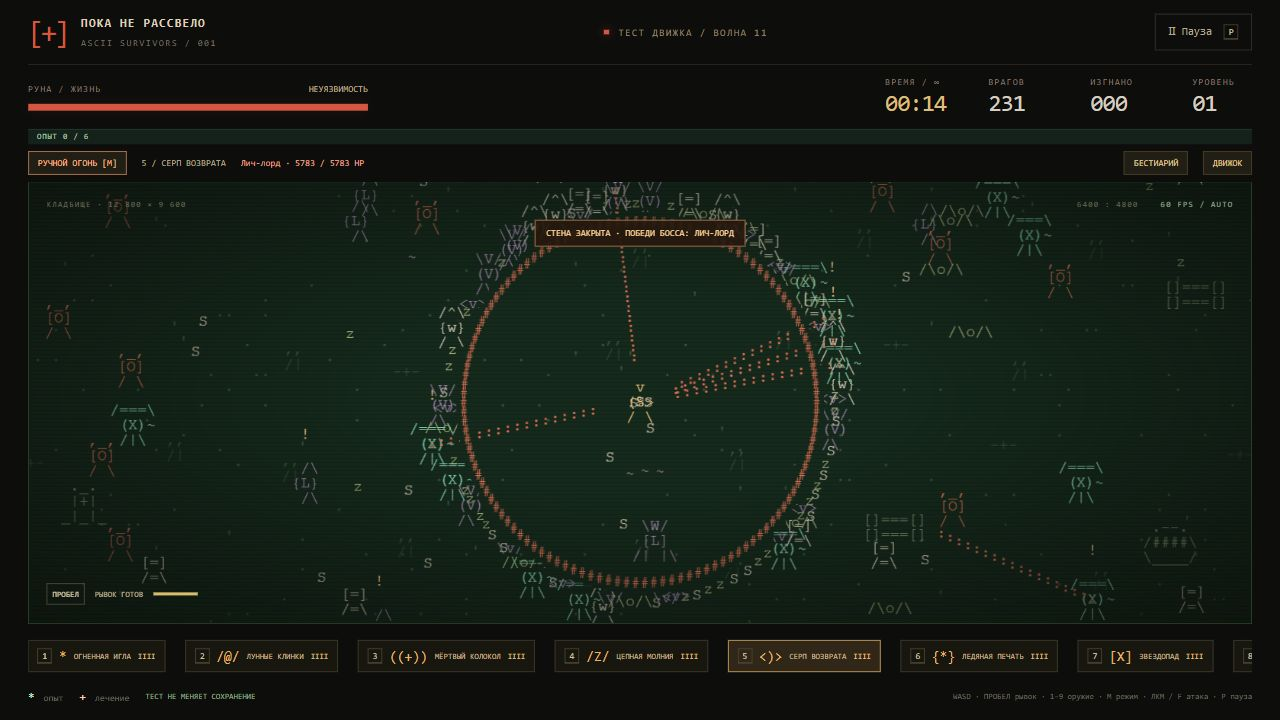
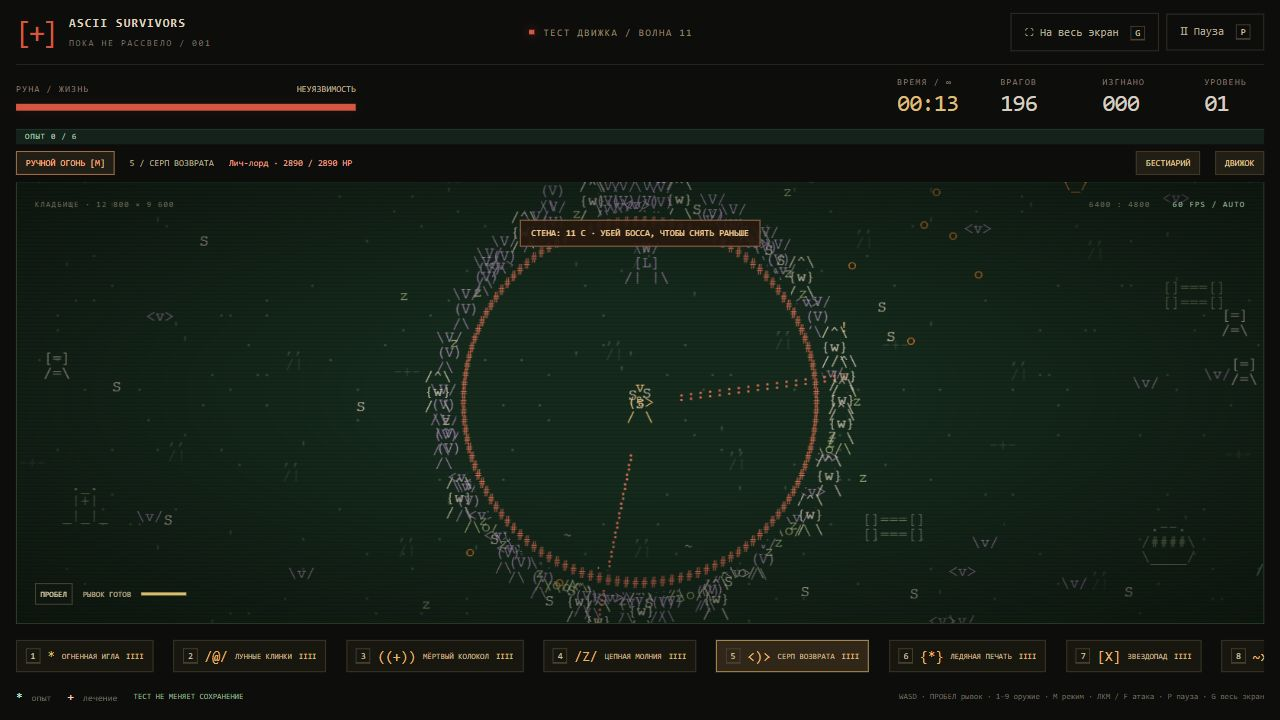
Limit boss seals to 15 seconds and rebalance arena encounters

diff --git a/core.js b/core.js
@@ -50,7 +50,7 @@
   const CASTS = { lightning: ['castLightning', 2.4], boomerang: ['castBoomerang', 1.7], frost: ['castFrost', 4.2], meteor: ['castMeteor', 3.2] };
   const SLOTS = ['needle', 'blades', 'pulse', 'lightning', 'boomerang', 'frost', 'meteor', 'poison', null];
   const WORLD = Object.freeze({ width: 12800, height: 9600 });
-  const BALANCE = Object.freeze({ weaponCooldown: .65, dashCooldown: .6 });
+  const BALANCE = Object.freeze({ weaponCooldown: .65, dashCooldown: .6, arenaSeconds: 15, arenaBossHealth: 1.25, arenaBossDamage: .75, arenaSummonLimit: 4 });
   const BOSSES = ['lichLord', 'british', 'freddy', 'jason', 'alienQueen', 'reaper'];
   const TERRAIN_TYPES = [
     { kind: 'grave', w: 46, h: 46, sprite: ' ._.\n |+|\n_|_|_', ink: 1 },
@@ -188,11 +188,16 @@
       }
     }
     beginEncounter() {
-      this.encounter = { phase: 'warning', x: this.player.x, y: this.player.y, radius: this.arenaRadius, warningLeft: 5, bossId: 0, kind: BOSSES[this.bossIndex % BOSSES.length] };
+      this.encounter = { phase: 'warning', x: this.player.x, y: this.player.y, radius: this.arenaRadius, warningLeft: 5, lockedLeft: BALANCE.arenaSeconds, bossId: 0, kind: BOSSES[this.bossIndex % BOSSES.length] };
       this.events.push('arena-warning');
     }
     updateEncounter(dt) {
-      const arena = this.encounter; if (!arena || arena.phase !== 'warning') return;
+      const arena = this.encounter; if (!arena) return;
+      if (arena.phase === 'locked') {
+        arena.lockedLeft = Math.max(0, arena.lockedLeft - dt);
+        if (arena.lockedLeft <= 0) this.releaseArena('arena-timeout');
+        return;
+      }
       arena.x = clamp(this.player.x, arena.radius + 90, this.width - arena.radius - 90);
       arena.y = clamp(this.player.y, arena.radius + 90, this.height - arena.radius - 90);
       arena.warningLeft = Math.max(0, arena.warningLeft - dt);
@@ -201,9 +206,19 @@
       for (const enemy of this.enemies) { enemy.arenaMember = 0; this.resolveArena(enemy); }
       const angle = this.random() * TAU, distance = arena.radius * .56;
       const boss = this.spawn(arena.kind, arena.x + Math.cos(angle) * distance, arena.y + Math.sin(angle) * distance, 1);
-      boss.hp *= 2.5; boss.maxHp = boss.hp; boss.radius = Math.min(46, boss.radius * 1.25); boss.arenaMember = 1;
+      boss.hp *= BALANCE.arenaBossHealth; boss.maxHp = boss.hp; boss.damage *= BALANCE.arenaBossDamage;
+      boss.radius = Math.min(46, boss.radius * 1.25); boss.arenaMember = 1;
+      this.player.invulnerable = Math.max(this.player.invulnerable, 1);
       arena.bossId = boss.id; this.bossIndex++; this.bossSpawned = true; this.lastBoss = boss.title;
       this.events.push('boss');
+    }
+    releaseArena(event) {
+      if (!this.encounter) return;
+      this.encounter = null; this.nextBossAt = this.pressureTime + 90;
+      for (const enemy of this.enemies) enemy.arenaMember = 0;
+      for (const summon of this.summons) summon.arenaMember = 0;
+      this.resolveTerrain(this.player); this.player.invulnerable = Math.max(this.player.invulnerable, 1.5);
+      this.events.push(event);
     }
     dropChest(enemy) {
       const chest = { id: this.nextChestId++, x: enemy.x, y: enemy.y, source: enemy.kind, radius: 20 };
@@ -256,7 +271,7 @@
     aimedTarget(range = 620) {
       const p = this.player, aim = this.aimPoint(range), dx = aim.x - p.x, dy = aim.y - p.y, length = Math.hypot(dx, dy) || 1;
       let found = null, score = Infinity;
-      for (const e of this.enemies) if (e.alive) {
+      for (const e of this.enemies) if (e.alive && (this.encounter?.phase !== 'locked' || e.arenaMember)) {
         const ex = e.x - p.x, ey = e.y - p.y, along = (ex * dx + ey * dy) / length, side = Math.abs(ex * dy - ey * dx) / length;
         if (along > 0 && along < range && side < 48 + e.radius && along + side * 3 < score) { score = along + side * 3; found = e; }
       }
@@ -358,8 +373,9 @@
       if (e.boss) this.bossKills++;
       if (e.boss) {
         if (this.encounter?.bossId === e.id) {
-          this.encounter = null; this.nextBossAt = this.pressureTime + 90; this.resolveTerrain(this.player); this.events.push('arena-clear');
-        }
+          this.releaseArena('arena-clear');
+        } else this.events.push('boss-defeated');
+        this.nextBossAt = this.pressureTime + 90;
         this.dropChest(e);
       }
       this.addGem(e.x, e.y, e.xp);
@@ -381,12 +397,7 @@
     fire() {
       if (!this.levels.needle) return;
       const p = this.player;
-      let closest = null, distance = 700 * 700;
-      for (const e of this.enemies) if (e.alive) {
-        const d = (e.x - p.x) ** 2 + (e.y - p.y) ** 2;
-        if (d < distance) { distance = d; closest = e; }
-      }
-      if (this.fireMode === 'manual') closest = this.aimPoint(700);
+      const closest = this.fireMode === 'manual' ? this.aimPoint(700) : this.targets(p.x, p.y, 700, 1)[0];
       if (!closest) return;
       const angle = Math.atan2(closest.y - p.y, closest.x - p.x);
       const count = 1 + this.levels.fork;
@@ -432,12 +443,13 @@
       return result;
     }
     targets(x = this.player.x, y = this.player.y, radius = 620, count = 2) {
-      const best = [], distances = [];
-      for (const e of this.enemies) if (e.alive) {
+      const best = [], distances = [], arena = this.encounter?.phase === 'locked' ? this.encounter : null;
+      for (const e of this.enemies) if (e.alive && (!arena || e.arenaMember)) {
         const d = (e.x - x) ** 2 + (e.y - y) ** 2; if (d >= radius * radius) continue;
-        let i = 0; while (i < distances.length && distances[i] < d) i++;
+        const score = arena?.bossId === e.id ? -1 : d;
+        let i = 0; while (i < distances.length && distances[i] < score) i++;
         if (i >= count) continue;
-        best.splice(i, 0, e); distances.splice(i, 0, d); if (best.length > count) { best.pop(); distances.pop(); }
+        best.splice(i, 0, e); distances.splice(i, 0, score); if (best.length > count) { best.pop(); distances.pop(); }
       }
       return best;
     }
@@ -542,6 +554,10 @@
       this.slashes = this.slashes.filter(s => s.life > 0);
     }
     queueSummons(e, kind, count) {
+      if (e.arenaMember && this.encounter?.phase === 'locked') {
+        const inside = this.enemies.filter(enemy => enemy.alive && enemy.arenaMember && !enemy.boss).length + this.summons.filter(summon => summon.arenaMember).length;
+        count = Math.min(count, Math.max(0, BALANCE.arenaSummonLimit - inside));
+      }
       for (let i = 0; i < count && this.summons.length < 24; i++) {
         const angle = this.random() * TAU, distance = 55 + this.random() * 40;
         this.summons.push({ kind, x: clamp(e.x + Math.cos(angle) * distance, 28, this.width - 28), y: clamp(e.y + Math.sin(angle) * distance, 28, this.height - 28), arenaMember: e.arenaMember });
@@ -623,7 +639,7 @@
 
       this.spawnClock -= dt;
       if (this.spawnClock <= 0) this.spawnWave();
-      if (!this.encounter && this.pressureTime >= this.nextBossAt && this.enemies.length < this.enemyLimit) this.beginEncounter();
+      if (!this.encounter && this.pressureTime >= this.nextBossAt && this.enemies.length < this.enemyLimit && !this.enemies.some(e => e.alive && e.boss)) this.beginEncounter();
       this.updateEncounter(dt);
       this.peakEnemies = Math.max(this.peakEnemies, this.enemies.length);
       for (const e of this.enemies) if (e.alive) {

diff --git a/progress.js b/progress.js
@@ -29,7 +29,7 @@
       fireMode: game.fireMode, selectedWeapon: game.selectedWeapon, lastBoss: game.lastBoss,
       player: pick(game.player, playerKeys), levels: { ...game.levels }, clocks: { ...game.weaponClocks },
       offers: game.offers.map(u => u.id), encountered: Array.from(game.encountered),
-      terrainEnabled: game.terrainEnabled, encounter: game.encounter ? { ...game.encounter } : null,
+      terrainEnabled: game.terrainEnabled, arenaBalance: 2, encounter: game.encounter ? { ...game.encounter } : null,
       chests: game.chests.map(chest => ({ ...chest })), reward: game.reward ? { ...game.reward, items: game.reward.items.map(item => ({ ...item })) } : null,
       enemies: game.enemies.filter(e => e.alive).map(e => [e.kind, ...enemyKeys.map(key => e[key])]),
       gems: game.gems.map(g => ({ x: g.x, y: g.y, value: g.value, bin: g.bin, magnetized: Boolean(g.magnetized) }))
@@ -90,8 +90,18 @@
           const a = save.encounter;
           if (!plain(a) || !['warning', 'locked'].includes(a.phase) || !Object.hasOwn(NightEnemies, a.kind) || !NightEnemies[a.kind].boss) return null;
           game.encounter = { ...numeric(a, ['x', 'y', 'radius', 'warningLeft', 'bossId']), phase: a.phase, kind: a.kind };
+          game.encounter.lockedLeft = a.lockedLeft === undefined ? NightBalance.arenaSeconds : number(a.lockedLeft, 0, NightBalance.arenaSeconds);
           number(a.radius, 120, 300); number(a.x, a.radius, game.width - a.radius); number(a.y, a.radius, game.height - a.radius); number(a.warningLeft, 0, 5);
           if (!uint(a.bossId) || a.phase === 'locked' && !game.enemies.some(e => e.id === a.bossId && e.boss && e.arenaMember)) return null;
+          if (a.phase === 'locked' && save.arenaBalance !== 2) {
+            const boss = game.enemies.find(e => e.id === a.bossId);
+            boss.hp *= .5; boss.maxHp *= .5; boss.damage *= NightBalance.arenaBossDamage;
+            game.player.invulnerable = Math.max(game.player.invulnerable, 1.5);
+            let minions = 0;
+            for (const enemy of game.enemies) if (enemy.arenaMember && !enemy.boss && ++minions > NightBalance.arenaSummonLimit) {
+              enemy.arenaMember = 0; game.resolveArena(enemy); enemy.prevX = enemy.x; enemy.prevY = enemy.y;
+            }
+          }
         }
         game.chests = list(save.chests, 64).map(c => {
           if (!Object.hasOwn(NightEnemies, c.source) || !NightEnemies[c.source].boss || !uint(c.id) || c.id < 1 || c.id >= game.nextChestId) throw new Error('Invalid chest');

diff --git a/game.js b/game.js
@@ -217,7 +217,7 @@
     text('boss-name', boss ? boss.title + ' · ' + (boss.id === game.encounter?.bossId ? Math.ceil(boss.hp) + ' / ' + Math.ceil(boss.maxHp) + ' HP' : Math.ceil(boss.hp / boss.maxHp * 100) + '%') : '');
     const encounter = game.encounter;
     $('encounter-note').hidden = !encounter; arena.classList.toggle('has-encounter', Boolean(encounter));
-    if (encounter) text('encounter-note', encounter.phase === 'warning' ? 'ПЕЧАТЬ ЗАМКНЁТСЯ ЧЕРЕЗ ' + Math.ceil(encounter.warningLeft) + ' С' : 'СТЕНА ЗАКРЫТА · ПОБЕДИ БОССА: ' + NightEnemies[encounter.kind].title.toUpperCase());
+    if (encounter) text('encounter-note', encounter.phase === 'warning' ? 'ПЕЧАТЬ ЗАМКНЁТСЯ ЧЕРЕЗ ' + Math.ceil(encounter.warningLeft) + ' С' : 'СТЕНА: ' + Math.ceil(encounter.lockedLeft) + ' С · УБЕЙ БОССА, ЧТОБЫ СНЯТЬ РАНЬШЕ');
     if (game.stressMode) text('save-status', 'ТЕСТ НЕ МЕНЯЕТ СОХРАНЕНИЕ');
     else if (status === 'ready') text('save-status', progress.available ? 'АВТОСОХРАНЕНИЕ' : 'ХРАНИЛИЩЕ НЕДОСТУПНО');
     text('dash-label', p.dashReady <= 0 ? 'РЫВОК ГОТОВ' : 'РЫВОК ' + p.dashReady.toFixed(1) + ' С');
@@ -375,8 +375,9 @@
     simulationMS += (performance.now() - simulationStart - simulationMS) * .1;
     if (game.events.includes('boss')) notify('БОСС: ' + game.lastBoss.toUpperCase());
     if (game.events.includes('arena-warning')) notify('ГОТОВЬСЯ: ПЯТЬ СЕКУНД ДО ЗАМЫКАНИЯ СТЕНЫ');
-    if (game.events.includes('arena-clear')) notify('ПЕЧАТЬ СНЯТА · ЗАБЕРИ СУНДУК БОССА');
-    if (game.events.some(event => ['boss', 'arena-warning', 'arena-clear', 'chest-open'].includes(event))) saveCheckpoint();
+    if (game.events.includes('arena-clear') || game.events.includes('boss-defeated')) notify('БОСС ПОБЕЖДЁН · ЗАБЕРИ СУНДУК');
+    if (game.events.includes('arena-timeout')) notify('СТЕНА ИСЧЕЗЛА · БОСС ОСТАЛСЯ НА ПОЛЕ');
+    if (game.events.some(event => ['boss', 'arena-warning', 'arena-clear', 'arena-timeout', 'boss-defeated', 'chest-open'].includes(event))) saveCheckpoint();
     game.events.length = 0;
     if (now - lastHUD > 85) { updateHUD(); lastHUD = now; }
     if (!document.hidden && (game.status === 'running' || dirty)) {
